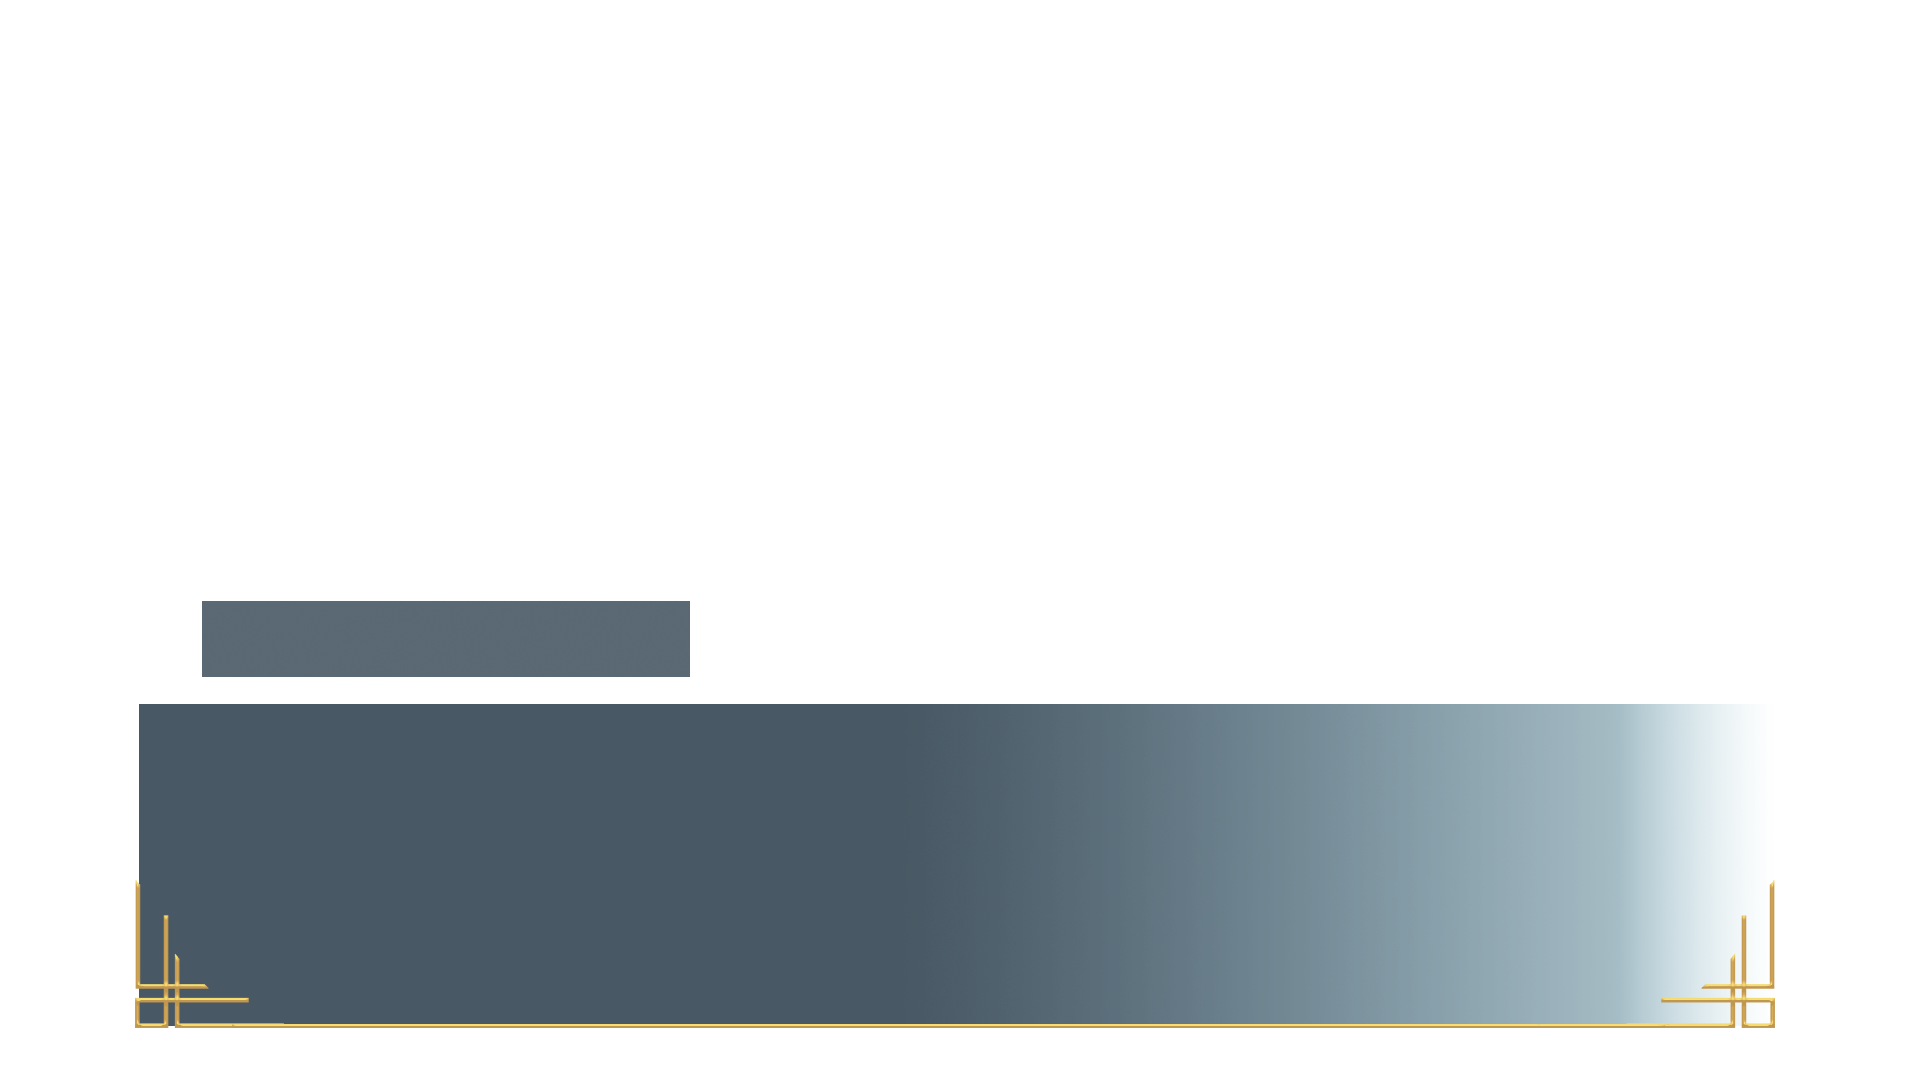
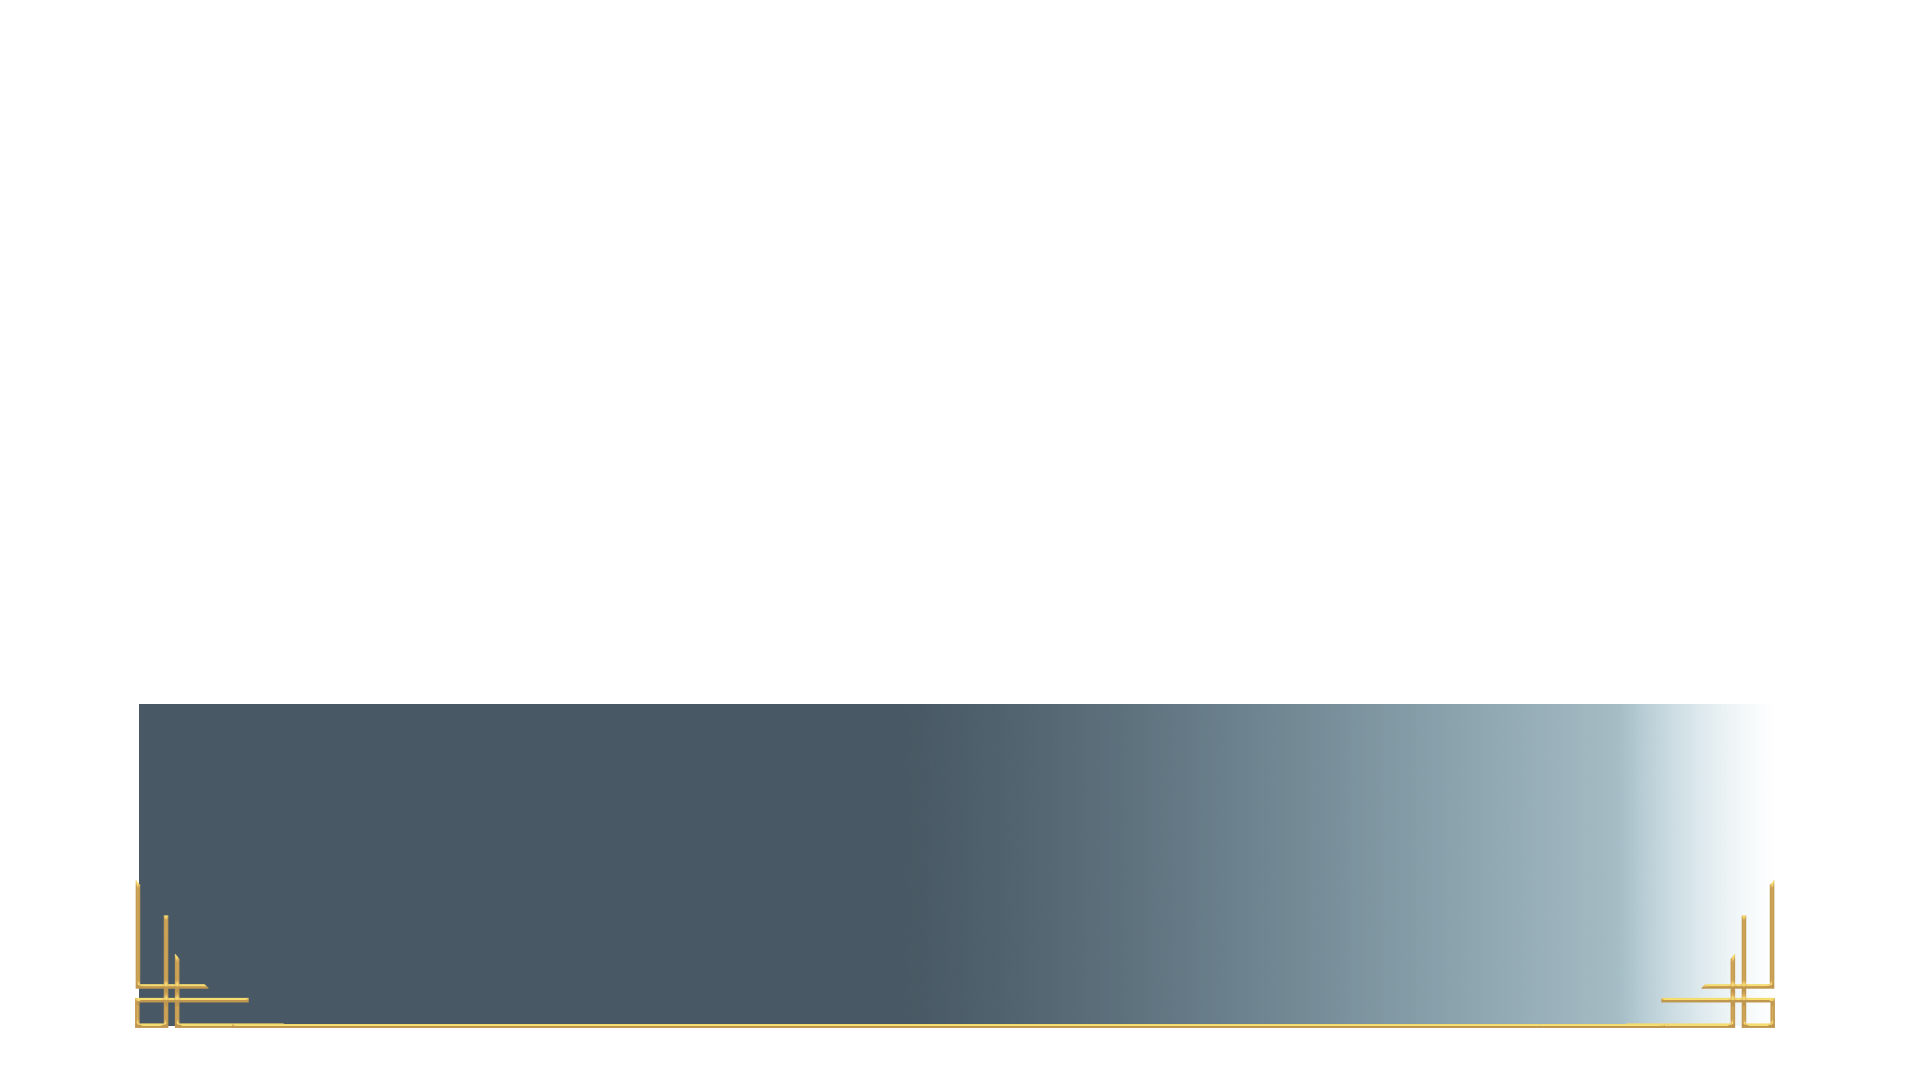
UPDATE speakerBox now hides when no one is speaking out loud

Changed region(s): [[0.0938, 0.55, 0.375, 0.6417]]

diff --git a/src/dialog.ts b/src/dialog.ts
@@ -112,6 +112,7 @@ export class DialogScene extends entity.CompositeEntity {
   private _closeupLayer: PIXI.Container;
   private _uiLayer: PIXI.Container;
   private _dialogLayer: PIXI.Container;
+  private _dialogSpeaker: PIXI.Container;
 
   private _nodeDisplay: PIXI.DisplayObject;
   private _clock: Clock;
@@ -160,6 +161,15 @@ export class DialogScene extends entity.CompositeEntity {
       )
     );
     this._container.addChild(this._dialogLayer);
+
+    this._dialogSpeaker = new PIXI.Container();
+    this._dialogSpeaker.addChild(
+      new PIXI.Sprite(
+        this.entityConfig.app.loader.resources["images/ui/dialog_speaker.png"].texture
+      )
+    );
+    this._dialogSpeaker.position.set(202, 601);
+    this._dialogLayer.addChild(this._dialogSpeaker);
 
     // Setup clock
     this._clock = new Clock(new PIXI.Point(1920 - 557 / 2, 0));
@@ -235,8 +245,9 @@ export class DialogScene extends entity.CompositeEntity {
 
     this._nodeDisplay = new PIXI.Container();
     this._container.addChild(this._nodeDisplay);
-
+    
     if (speaker) {
+      this._dialogSpeaker.visible = true;
       const speakerName =
         speaker.toLowerCase() === "you"
           ? this._variableStorage.get("name")
@@ -246,13 +257,18 @@ export class DialogScene extends entity.CompositeEntity {
         fontFamily: "Jura",
         fontSize: 50,
       });
-      speakerText.position.set(437, 637);
+      speakerText.position.set(
+        this._dialogSpeaker.x + (this._dialogSpeaker.width / 2),
+        this._dialogSpeaker.y + (this._dialogSpeaker.height / 2)
+      );
       speakerText.anchor.set(0.5);
       (this._nodeDisplay as PIXI.Container).addChild(speakerText);
 
       if (this._autoshowOn) {
         this._changeCharacter(speaker.toLowerCase());
       }
+    } else {
+      this._dialogSpeaker.visible = false;
     }
 
     {

diff --git a/src/game.ts b/src/game.ts
@@ -49,6 +49,7 @@ const transitions = {
 const graphicalAssets = [
   // UI
   "images/ui/dialog.png",
+  "images/ui/dialog_speaker.png",
   "images/ui/clock.png",
   "images/ui/journal_bg.png",
   "images/ui/journal_button.png",
